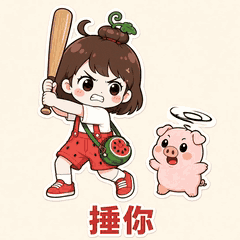
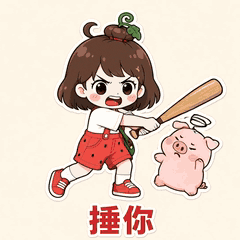
feat: faster hit stickers (--speed) for 笨笨 抽你 捶你 飞踢 踩你

diff --git a/src/lib/packs.ts b/src/lib/packs.ts
@@ -290,11 +290,11 @@ export const PACKS: Pack[] = [
 ];
 
 export function stickerGif(packId: string, stickerId: string) {
-  return `/stickers/${packId}/${stickerId}.gif?v=88`;
+  return `/stickers/${packId}/${stickerId}.gif?v=89`;
 }
 
 export function stickerPng(packId: string, stickerId: string) {
-  return `/stickers/${packId}/${stickerId}.png?v=88`;
+  return `/stickers/${packId}/${stickerId}.png?v=89`;
 }
 
 export function getPack(id: string) {

diff --git a/.grok/skills/duomei-stickers/SKILL.md b/.grok/skills/duomei-stickers/SKILL.md
@@ -44,6 +44,8 @@ Same locked watermelon-skin Duomei as the classic character sheet: chibi girl, W
 Locked camera, no zoom, no pan, no tilt. Square 1:1. Character stays full-body centered the entire time. Background and bottom caption stay completely still. One complete action in 3 seconds: anticipation → big climax → return to the exact starting pose, then repeat. First frame pose equals last frame pose. Large continuous motion, no freeze-frame, no sudden jump. Same face, hair, outfit throughout. No extra limbs.
 ```
 
+打击类（打、抽、踢、捶、踩）要**快、连续**：3 秒内连打 3–4 下，中间不停顿（视频提示词写 rapid consecutive hits, no pause between hits）；做 GIF 时加 `--mode cut --speed 1.6`，不要用 boomerang（倒放会让被打的飞回来）。
+
 动作要大、要有情绪高潮：打/抽/踢要凶要快；"无语""白眼"这类表情也要有完整动作（耸肩、仰头翻眼），不能只是站着眨眼。
 
 # 流程

diff --git a/public/downloads/duomei-stickers-SKILL.md b/public/downloads/duomei-stickers-SKILL.md
@@ -44,6 +44,8 @@ Same locked watermelon-skin Duomei as the classic character sheet: chibi girl, W
 Locked camera, no zoom, no pan, no tilt. Square 1:1. Character stays full-body centered the entire time. Background and bottom caption stay completely still. One complete action in 3 seconds: anticipation → big climax → return to the exact starting pose, then repeat. First frame pose equals last frame pose. Large continuous motion, no freeze-frame, no sudden jump. Same face, hair, outfit throughout. No extra limbs.
 ```
 
+打击类（打、抽、踢、捶、踩）要**快、连续**：3 秒内连打 3–4 下，中间不停顿（视频提示词写 rapid consecutive hits, no pause between hits）；做 GIF 时加 `--mode cut --speed 1.6`，不要用 boomerang（倒放会让被打的飞回来）。
+
 动作要大、要有情绪高潮：打/抽/踢要凶要快；"无语""白眼"这类表情也要有完整动作（耸肩、仰头翻眼），不能只是站着眨眼。
 
 # 流程
